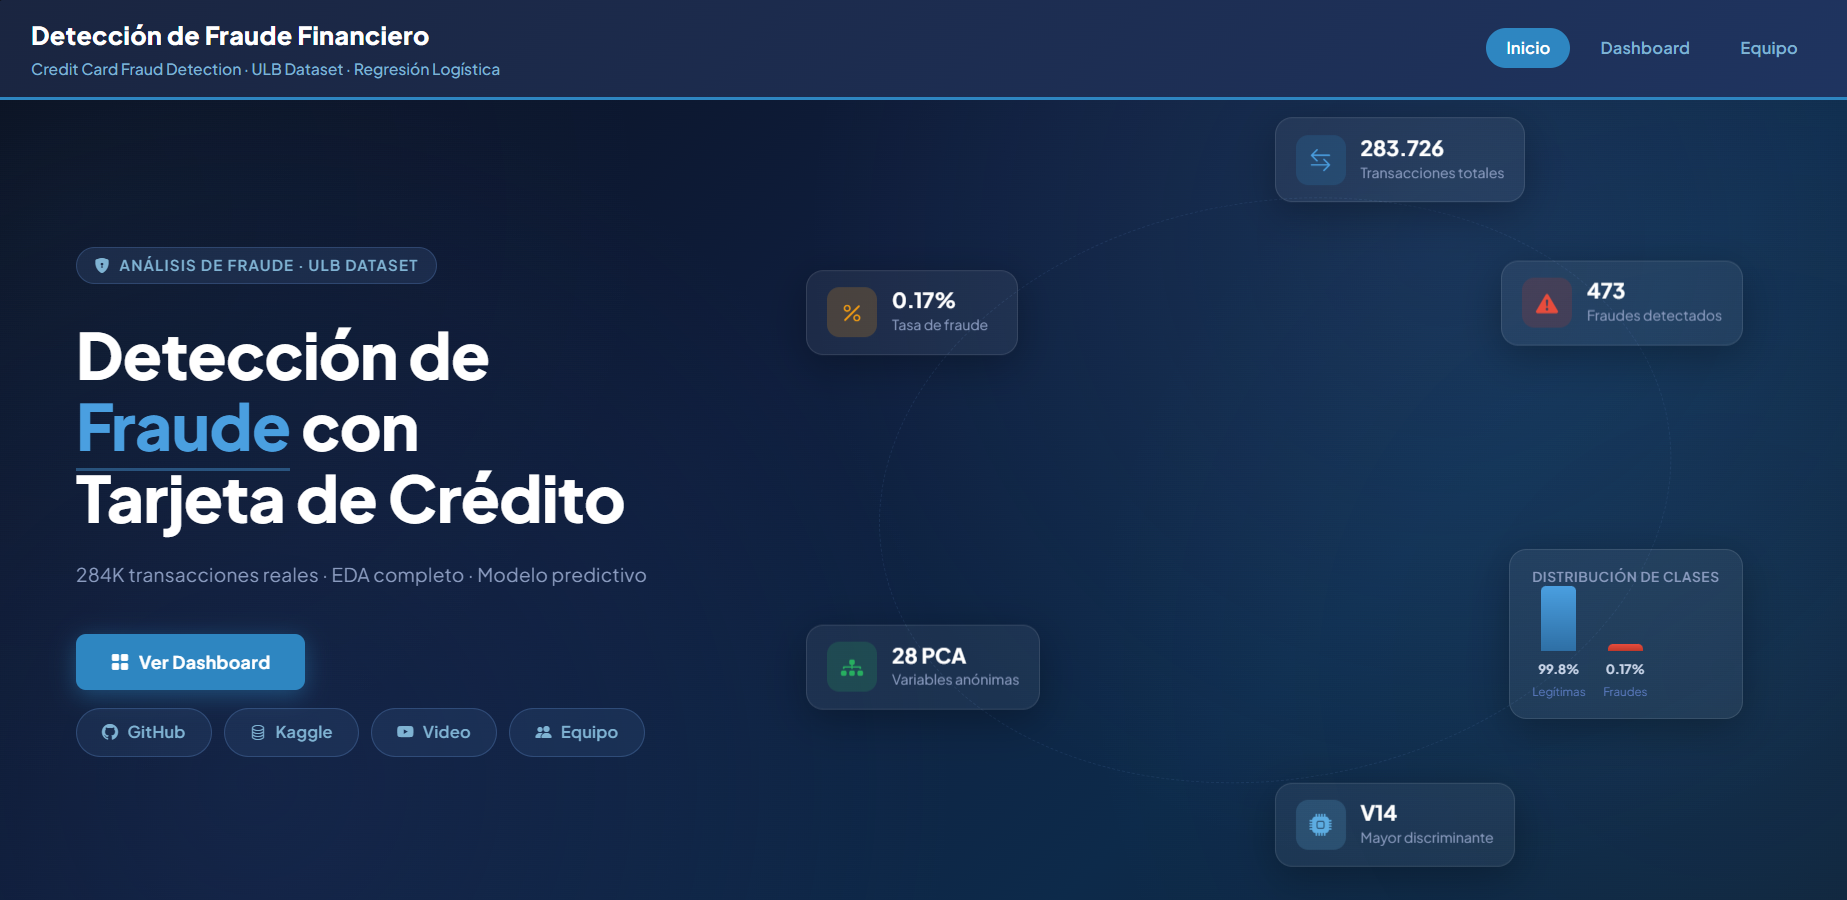
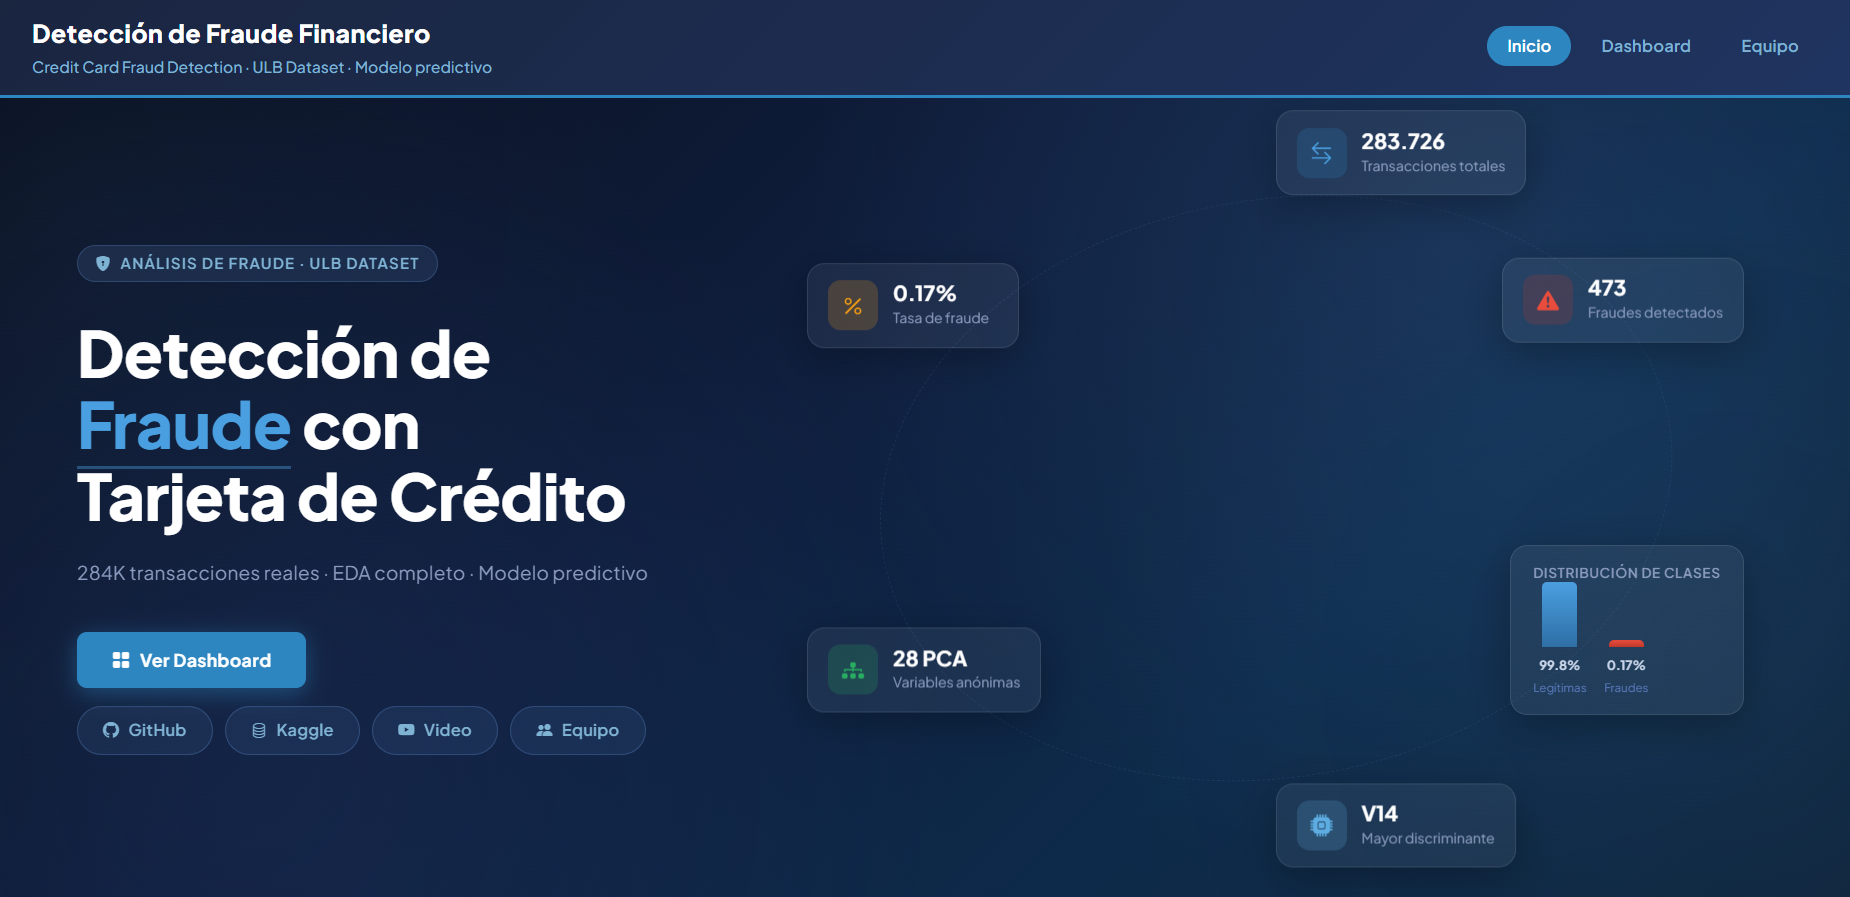
Actualizar imagen presentación, app.py y gitignore

diff --git a/app.py b/app.py
@@ -54,7 +54,7 @@ app.layout = html.Div([
     html.Div([
         html.Div([
             html.Div("Detección de Fraude Financiero", className="navbar-brand-text"),
-            html.Div("Credit Card Fraud Detection · ULB Dataset · Regresión Logística",
+            html.Div("Credit Card Fraud Detection · ULB Dataset · Modelo predictivo",
                      className="navbar-subtitle"),
         ]),
         html.Div([
@@ -171,3 +171,9 @@ def render_dashboard_tab(tab: str):
     content = fn() if fn else html.Div("Pestaña no encontrada.", style={"padding": "40px"})
     
     return html.Div(content, key=f"{tab}-{time.time()}", className="tab-fade-in")
+
+if __name__ == "__main__":
+    port = int(os.environ.get("PORT", 8050))
+    debug = os.environ.get("DEBUG", "false").lower() == "true"
+    app.run(host="0.0.0.0", port=port, debug=debug)
+    
